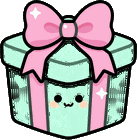
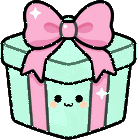
alfa ca53f88: Pop: la caja del regalo diario, retocada: menta lisa y opaca, sin motas ni trans

diff --git a/alfa/index.html b/alfa/index.html
@@ -9,21 +9,21 @@
 <link rel="icon" type="image/png" href="core/img/fog-192.png">
 <link rel="apple-touch-icon" href="core/img/fog-192.png">
 <link rel="manifest" href="manifest.webmanifest">
-<link rel="stylesheet" href="core/fuentes/baloo-2.css?v=f77ac28">
-<link rel="stylesheet" href="core/fuentes/luckiest-guy.css?v=f77ac28">
-<link rel="stylesheet" href="core/css/base.css?v=f77ac28">
-<link rel="stylesheet" href="estilo/web.css?v=f77ac28">
-<link rel="stylesheet" href="estilo/pie.css?v=f77ac28">
-<link rel="stylesheet" href="biblioteca/tienda.css?v=f77ac28">
-<link rel="stylesheet" href="novedades/ventana.css?v=f77ac28">
-<link rel="stylesheet" href="biblioteca/votos.css?v=f77ac28">
-<link rel="stylesheet" href="biblioteca/portada-nueva.css?v=f77ac28">
-<link rel="stylesheet" href="biblioteca/portada.css?v=f77ac28">
+<link rel="stylesheet" href="core/fuentes/baloo-2.css?v=c6f8100">
+<link rel="stylesheet" href="core/fuentes/luckiest-guy.css?v=c6f8100">
+<link rel="stylesheet" href="core/css/base.css?v=c6f8100">
+<link rel="stylesheet" href="estilo/web.css?v=c6f8100">
+<link rel="stylesheet" href="estilo/pie.css?v=c6f8100">
+<link rel="stylesheet" href="biblioteca/tienda.css?v=c6f8100">
+<link rel="stylesheet" href="novedades/ventana.css?v=c6f8100">
+<link rel="stylesheet" href="biblioteca/votos.css?v=c6f8100">
+<link rel="stylesheet" href="biblioteca/portada-nueva.css?v=c6f8100">
+<link rel="stylesheet" href="biblioteca/portada.css?v=c6f8100">
 </head>
 <body>
-<script src="core/js/sistema/idioma-regla.js?v=f77ac28"></script>
-<script src="idioma-web.js?v=f77ac28"></script>
-<script src="menu.js?v=f77ac28" data-base="" data-core="1" data-pagina=""></script>
+<script src="core/js/sistema/idioma-regla.js?v=c6f8100"></script>
+<script src="idioma-web.js?v=c6f8100"></script>
+<script src="menu.js?v=c6f8100" data-base="" data-core="1" data-pagina=""></script>
 <div class="nov-fondo" id="novedades" hidden>
   <div class="nov-caja" role="dialog" aria-modal="true" aria-labelledby="nov-titulo">
     <div class="nov-cabeza"><h2 class="ol" id="nov-titulo">NOVEDADES</h2><p id="nov-sub"></p></div>
@@ -400,8 +400,8 @@
   </section>
   <p class="note" id="pie-fansof">Fans Of™ · © 2026 Arkioner y Pepins · MicroBlizz · Todos los derechos reservados</p>
 </main>
-<script src="core/js/nucleo.js?v=0-a1379.05f9b15"></script>
-<script src="core/js/novedades.js?v=f77ac28"></script>
+<script src="core/js/nucleo.js?v=0-a1380.ca53f88"></script>
+<script src="core/js/novedades.js?v=c6f8100"></script>
 <script>
 // La cuenta de la web es la misma de los juegos (core/js/sistema/cuenta.js, mismo navegador = misma sesión). Aquí no hay partida que subir.
 const AJUSTES = { id: 'web', guardado: 'fansof-web' }, SAVE_KEY = AJUSTES.guardado, SAVE = {};
@@ -410,14 +410,14 @@ const HOOKS = {};
 function hook(name, fn) { (HOOKS[name] = HOOKS[name] || []).push(fn); }
 function fire(name, ...a) { let out = ''; for (const fn of HOOKS[name] || []) { const r = fn(...a); if (typeof r === 'string') out += r; } return out; }
 </script>
-<script src="core/js/sistema/cuenta.js?v=f77ac28"></script>
-<script src="core/js/cuenta/dominio/roles.js?v=f77ac28"></script>
-<script src="core/js/cuenta/aplicacion/roles-casos.js?v=f77ac28"></script>
-<script src="core/js/cuenta/adaptadores/roles-servidor.js?v=f77ac28"></script>
-<script src="core/js/cuenta/adaptadores/roles-almacen.js?v=f77ac28"></script>
-<script src="core/js/cuenta/roles.js?v=f77ac28"></script>
-<script src="core/js/sistema/flags.js?v=f77ac28"></script>
-<script src="estilo/estilo-nuevo.js?v=f77ac28"></script>
+<script src="core/js/sistema/cuenta.js?v=c6f8100"></script>
+<script src="core/js/cuenta/dominio/roles.js?v=c6f8100"></script>
+<script src="core/js/cuenta/aplicacion/roles-casos.js?v=c6f8100"></script>
+<script src="core/js/cuenta/adaptadores/roles-servidor.js?v=c6f8100"></script>
+<script src="core/js/cuenta/adaptadores/roles-almacen.js?v=c6f8100"></script>
+<script src="core/js/cuenta/roles.js?v=c6f8100"></script>
+<script src="core/js/sistema/flags.js?v=c6f8100"></script>
+<script src="estilo/estilo-nuevo.js?v=c6f8100"></script>
 <script>NUCLEO.idiomaSolo({ en: ['core/idioma/en-raiz.js', 'novedades/en.js', 'biblioteca/en.js','games/rumble/idioma/en-7.js', 'games/td/idioma/en-2.js', 'games/survivors/idioma/en.js', 'games/crush/idioma/en-raiz.js', 'games/jump/idioma/en-raiz.js', 'games/taxi/idioma/en-raiz.js', 'games/dark/idioma/en-raiz.js', 'games/nova/idioma/en-raiz.js', 'games/nova/idioma/en-raiz-2.js', 'games/beams/idioma/en-raiz.js', 'games/snakes/idioma/en-raiz.js', 'games/merge/idioma/en-raiz.js', 'games/swipe/idioma/en-raiz.js', 'games/pop/idioma/en-raiz.js', 'games/panic/idioma/en-raiz.js', 'games/vikings/idioma/en-raiz.js', 'games/goose/idioma/en-raiz.js', 'games/asalto/idioma/en-raiz.js', 'games/kingdom/idioma/en-raiz.js', 'games/auto/idioma/en-raiz.js', 'games/shelter/idioma/en-raiz.js', 'games/soccer/idioma/en-raiz.js', 'games/wings/idioma/en-raiz.js', 'games/spy/idioma/en-raiz.js', 'games/air/idioma/en-raiz.js', 'games/basement/idioma/en-raiz.js', 'games/zombies/idioma/en-raiz.js', 'games/island/idioma/en-raiz.js', 'games/rumble-3d/idioma/en-raiz.js', 'games/roguelite/idioma/en-raiz.js', 'games/tactics-advance/idioma/en-raiz.js', 'games/rouflage/idioma/en-raiz.js', 'games/dungeons/idioma/en-raiz.js', 'games/karts/idioma/en-raiz.js', 'games/recruit/idioma/en-raiz.js', 'games/terminal-shock/idioma/en-raiz.js', 'games/ratkov/idioma/en-raiz.js', 'games/paperwork/idioma/en-raiz.js'] })</script>
 <script>
 // La versión y las novedades salen de los archivos de cada juego, así que esta página nunca se queda atrás.
@@ -443,16 +443,16 @@ const fail = id => () => {
 };
 
 </script>
-<script src="novedades/lo-nuevo.js?v=f77ac28"></script>
-<script src="novedades/ventana.js?v=f77ac28"></script>
-<script src="biblioteca/grupos.js?v=f77ac28"></script>
-<script src="biblioteca/agrupar.js?v=f77ac28"></script>
-<script src="biblioteca/tienda.js?v=f77ac28"></script>
-<script src="biblioteca/cuenta-web.js?v=f77ac28"></script>
-<script src="biblioteca/votos.js?v=f77ac28"></script>
-<script src="biblioteca/alfa.js?v=f77ac28"></script>
-<script src="biblioteca/portada-nueva.js?v=f77ac28"></script>
-<script src="core/js/sistema/analitica.js?v=f77ac28"></script>
-<script src="pie.js?v=f77ac28" defer></script>
+<script src="novedades/lo-nuevo.js?v=c6f8100"></script>
+<script src="novedades/ventana.js?v=c6f8100"></script>
+<script src="biblioteca/grupos.js?v=c6f8100"></script>
+<script src="biblioteca/agrupar.js?v=c6f8100"></script>
+<script src="biblioteca/tienda.js?v=c6f8100"></script>
+<script src="biblioteca/cuenta-web.js?v=c6f8100"></script>
+<script src="biblioteca/votos.js?v=c6f8100"></script>
+<script src="biblioteca/alfa.js?v=c6f8100"></script>
+<script src="biblioteca/portada-nueva.js?v=c6f8100"></script>
+<script src="core/js/sistema/analitica.js?v=c6f8100"></script>
+<script src="pie.js?v=c6f8100" defer></script>
 </body>
 </html>

diff --git a/alfa/games/rouflage/index.html b/alfa/games/rouflage/index.html
@@ -8,7 +8,7 @@
 <meta name="description" content="Fans of Rouflage (juego): el escondite con pintura. Píntate como el suelo, congélate y que los becarios de Microblizz no te despidan. O coge la linterna y encuéntralos tú.">
 <link rel="icon" type="image/png" href="img/icono-192.png">
 <!-- nucleo.js, lo primero (antes de las fuentes y las hojas): pinta la splash de carga desde el primer momento (ADR 091) -->
-<script src="../../core/js/nucleo.js?v=0.2.81-a1379.05f9b15"></script>
+<script src="../../core/js/nucleo.js?v=0.2.81-a1380.ca53f88"></script>
 <script>NUCLEO.fuentes('../../core/fuentes/baloo-2.css', '../../core/fuentes/luckiest-guy.css')</script>
 <script>NUCLEO.estilos('../../core/css/base.css', '../../core/css/menus.css', '../../core/css/menus-extra.css')</script>
 <script>NUCLEO.estilos('estilo.css', 'estilo-taller.css', 'estilo-pantallas.css', 'estilo-pvp.css', 'estilo-armario.css', 'estilo-menus.css', 'estilo-misiones.css', 'estilo-escenario.css', 'estilo-votos.css', 'estilo-gacha.css', 'estilo-compra.css', 'estilo-fin.css', 'estilo-talentos.css', 'estilo-chat.css', 'estilo-titulo.css', 'estilo-tienda.css', 'estilo-barras.css', 'estilo-tarjetas.css', 'estilo-barra.css', 'estilo-sala-viva.css', 'estilo-obra.css', 'estilo-ayuda.css', 'estilo-pintura.css', 'estilo-carga.css')</script>      <!-- la intro, la última: pisa el #carga de estilo.css (antes iba en línea dentro de #carga) -->

diff --git a/alfa/games/rumble-clasico/index.html b/alfa/games/rumble-clasico/index.html
@@ -15,7 +15,7 @@
 <!-- core/js/nucleo.js carga lo común y el juego. LA VERSIÓN SE ESCRIBE SOLO AQUÍ, en su ?v= -->
 <!-- GENERADO por herramientas/rumble_v2.py desde games/rumble/index.html: no editar a mano -->
 <script>try { const u = new URL(location.href); if (u.searchParams.get('nube') !== '0') { u.searchParams.set('nube', '0'); history.replaceState(null, '', u); } } catch (e) { /* sin dirección */ }</script>
-<script src="../../core/js/nucleo.js?v=0.9.174-a1379.05f9b15"></script>
+<script src="../../core/js/nucleo.js?v=0.9.174-a1380.ca53f88"></script>
 <script>NUCLEO.fuentes('../../core/fuentes/baloo-2.css', '../../core/fuentes/luckiest-guy.css')</script>
 <script>NUCLEO.estilos('../../core/css/menus.css', '../../games/rumble/css/estilos-partida.css', '../../games/rumble/css/estilos-extra.css', '../../games/rumble/css/arena.css', '../../core/css/biblioteca.css', '../../games/rumble/css/facciones-y-jefes.css', '../../core/css/clasificacion.css', '../../games/rumble/css/frases.css', '../../games/rumble/css/mitica.css', '../../games/rumble/css/paletas.css')</script>
 

diff --git a/alfa/games/rumble-v2/index.html b/alfa/games/rumble-v2/index.html
@@ -15,7 +15,7 @@
 <!-- core/js/nucleo.js carga lo común y el juego. LA VERSIÓN SE ESCRIBE SOLO AQUÍ, en su ?v= -->
 <!-- GENERADO por herramientas/rumble_v2.py desde games/rumble/index.html: no editar a mano -->
 <script>try { const u = new URL(location.href); if (u.searchParams.get('nube') !== '0') { u.searchParams.set('nube', '0'); history.replaceState(null, '', u); } } catch (e) { /* sin dirección */ }</script>
-<script src="../../core/js/nucleo.js?v=0.9.174-a1379.05f9b15"></script>
+<script src="../../core/js/nucleo.js?v=0.9.174-a1380.ca53f88"></script>
 <script>NUCLEO.fuentes('../../core/fuentes/baloo-2.css', '../../core/fuentes/luckiest-guy.css')</script>
 <script>NUCLEO.estilos('../../core/css/menus.css', '../../games/rumble/css/estilos-partida.css', '../../games/rumble/css/estilos-extra.css', '../../games/rumble/css/arena.css', '../../core/css/biblioteca.css', '../../games/rumble/css/facciones-y-jefes.css', '../../core/css/clasificacion.css', '../../games/rumble/css/frases.css', '../../games/rumble/css/mitica.css', '../../games/rumble/css/paletas.css')</script>
 

diff --git a/alfa/games/pop/index.html b/alfa/games/pop/index.html
@@ -6,7 +6,7 @@
 <meta name="theme-color" content="#1a1030">
 <title>Fans of Pop</title>
 <meta name="description" content="Fans of Pop: haz pop en las burbujas de un tablero para liberar a los slimes atrapados y llévalos contigo hasta el jefe. Un roguelike de puzles corto, táctil y relajado.">
-<script src="../../core/js/nucleo.js?v=0.6.0-a1379.05f9b15"></script>
+<script src="../../core/js/nucleo.js?v=0.6.0-a1380.ca53f88"></script>
 <script>NUCLEO.fuentes('../../core/fuentes/fredoka.css')</script>
 <!-- ?v= es la versión de la demo: súbela al publicar -->
 <script>NUCLEO.estilos('../../core/css/base.css', '../../core/css/menus.css', 'css/pop.css', 'css/cuenta.css', 'css/feria.css', 'css/primeros.css', 'css/companeros.css', 'css/victoria.css', 'css/victoria-panel.css', 'css/victoria-marco.css', 'css/pase.css', 'css/regalo.css', 'css/precios.css', 'css/edad.css', 'css/tienda-venta.css', 'css/lola.css', 'css/portada.css', 'css/barras.css')</script>

diff --git a/alfa/games/jump/index.html b/alfa/games/jump/index.html
@@ -8,7 +8,7 @@
 <meta name="description" content="Fans of Jump: el prólogo de los Animales Locos. Microblizz arrasa el bosque y su topadora gigante empuja una ola de barro río arriba. Salta con CrazyBunny de tronco en tronco y rescata a su pandilla.">
 <link rel="icon" type="image/png" href="img/icono-192.png">
 <link rel="manifest" href="manifest.webmanifest">
-<script src="../../core/js/nucleo.js?v=0.3.32-a1379.05f9b15"></script>
+<script src="../../core/js/nucleo.js?v=0.3.32-a1380.ca53f88"></script>
 <script>NUCLEO.fuentes('../../core/fuentes/baloo-2.css', '../../core/fuentes/luckiest-guy.css')</script>
 <!-- ?v= es la versión del juego (la misma en la web y en la app): súbela al publicar y pon su entrada en js/novedades.js -->
 <script>NUCLEO.estilos('../../core/css/base.css', '../../core/css/menus.css')</script>

diff --git a/alfa/games/karts/index.html b/alfa/games/karts/index.html
@@ -8,7 +8,7 @@
 <meta name="description" content="Fans of Karts (juego): carreras de karts en pixel art de consola portátil con los líderes de Fans of Rumble. Tres pistas, seis pilotos, objetos con mala idea y Microblizz, que ha comprado la carrera.">
 <link rel="icon" type="image/png" href="img/favicon.png">
 <link rel="apple-touch-icon" href="img/icon-192.png">
-<script src="../../core/js/nucleo.js?v=0.7.31-a1379.05f9b15"></script>
+<script src="../../core/js/nucleo.js?v=0.7.31-a1380.ca53f88"></script>
 <script>NUCLEO.estilos('../../core/css/base.css', '../../core/css/menus.css', '../../core/css/menus-tienda.css', '../../core/css/menus-extra.css', 'css/tienda.css', 'css/pvp.css')</script>
 <script>NUCLEO.fuentes('../../core/fuentes/baloo-2.css', '../../core/fuentes/luckiest-guy.css')</script>
 <style>

diff --git a/alfa/games/zombies/index.html b/alfa/games/zombies/index.html
@@ -6,7 +6,7 @@
 <meta name="theme-color" content="#0b0d12">
 <title>Fans of Zombies</title>
 <meta name="description" content="Fans of Zombies: supervivencia en la ciudad nevada de Microblizz después del parche 1.0. Come, bebe, duerme, registra y no hagas ruido: los fans zombificados lo oyen todo. Para PC, con teclado y ratón.">
-<script src="../../core/js/nucleo.js?v=0.14.2-a1379.05f9b15"></script>
+<script src="../../core/js/nucleo.js?v=0.14.2-a1380.ca53f88"></script>
 <script>NUCLEO.fuentes('../../core/fuentes/vt323.css', '../../core/fuentes/russo-one.css', '../../core/fuentes/permanent-marker.css', '../../core/fuentes/special-elite.css')</script>
 <script src="https://cdnjs.cloudflare.com/ajax/libs/three.js/r128/three.min.js"></script>
 <!-- ?v= es la versión de la demo: súbela al publicar -->

diff --git a/alfa/games/asalto/index.html b/alfa/games/asalto/index.html
@@ -6,7 +6,7 @@
 <meta name="theme-color" content="#141026">
 <title>Fans of Asalto</title>
 <meta name="description" content="Fans of Asalto: invoca a los Animales Locos en el Altar de 3x3 (tres runas iguales en línea traen a un héroe), únelos para subirlos de nivel, compra objetos con esencia y aguanta las oleadas de Microblizz hasta el jefe.">
-<script src="../../core/js/nucleo.js?v=0.6.0-a1379.05f9b15"></script>
+<script src="../../core/js/nucleo.js?v=0.6.0-a1380.ca53f88"></script>
 <script>NUCLEO.fuentes('../../core/fuentes/jersey-10.css')</script>
 <!-- ?v= es la versión de la demo: súbela al publicar -->
 <script>NUCLEO.estilos('../../core/css/base.css', '../../core/css/menus.css', 'css/asalto.css', 'css/asalto-tema.css', 'css/asalto-leyendas.css')</script>

diff --git a/alfa/games/rumble/index.html b/alfa/games/rumble/index.html
@@ -13,7 +13,7 @@
 <link rel="icon" type="image/png" href="img/icono-192.png">
 <link rel="apple-touch-icon" href="img/icono-192.png">
 <!-- core/js/nucleo.js carga lo común y el juego. LA VERSIÓN SE ESCRIBE SOLO AQUÍ, en su ?v= -->
-<script src="../../core/js/nucleo.js?v=0.9.174-a1379.05f9b15"></script>
+<script src="../../core/js/nucleo.js?v=0.9.174-a1380.ca53f88"></script>
 <script>NUCLEO.fuentes('../../core/fuentes/baloo-2.css', '../../core/fuentes/luckiest-guy.css')</script>
 <script>NUCLEO.estilos('../../core/css/menus.css', 'css/estilos-partida.css', 'css/estilos-extra.css', 'css/arena.css', '../../core/css/biblioteca.css', 'css/facciones-y-jefes.css', '../../core/css/clasificacion.css', 'css/frases.css', 'css/mitica.css', 'css/paletas.css')</script>
 

diff --git a/alfa/games/paperwork/index.html b/alfa/games/paperwork/index.html
@@ -8,7 +8,7 @@
 <meta name="description" content="Fans Of Paperwork: baja planta a planta por el archivo de Microblizz, rebusca en los archivadores y atasca la Trituradora con su propio papeleo. Prototipo en desarrollo.">
 <meta name="robots" content="noindex">
 <link rel="icon" type="image/png" href="img/icono-192.png">
-<script src="../../core/js/nucleo.js?v=0.11.2-a1379.05f9b15"></script>
+<script src="../../core/js/nucleo.js?v=0.11.2-a1380.ca53f88"></script>
 <script>NUCLEO.fuentes('../../core/fuentes/baloo-2.css', '../../core/fuentes/luckiest-guy.css')</script>
 <!-- ?v= es la versión del prototipo: súbela al cambiarlo -->
 <script>NUCLEO.estilos('../../core/css/base.css', '../../core/css/medidor-anuncios.css', 'css/paperwork.css')</script>

diff --git a/alfa/games/spy/index.html b/alfa/games/spy/index.html
@@ -6,7 +6,7 @@
 <meta name="theme-color" content="#070d1c">
 <title>Fans of Spy: Operación Torre</title>
 <meta name="description" content="Fans of Spy: Operación Torre. Sigilo por turnos con cartas, en 3D con aire de cómic: cuela a CrazyBunny en la torre de Microblizz sin que te vean los Becarios, con Lola guiándote por radio.">
-<script src="../../core/js/nucleo.js?v=0.3.0-a1379.05f9b15"></script>
+<script src="../../core/js/nucleo.js?v=0.3.0-a1380.ca53f88"></script>
 <script>NUCLEO.fuentes('../../core/fuentes/baloo-2.css', '../../core/fuentes/luckiest-guy.css')</script>
 <!-- ?v= es la versión de la demo: súbela al publicar -->
 <script>NUCLEO.estilos('../../core/css/base.css', '../../core/css/menus.css', 'css/spy.css')</script>
